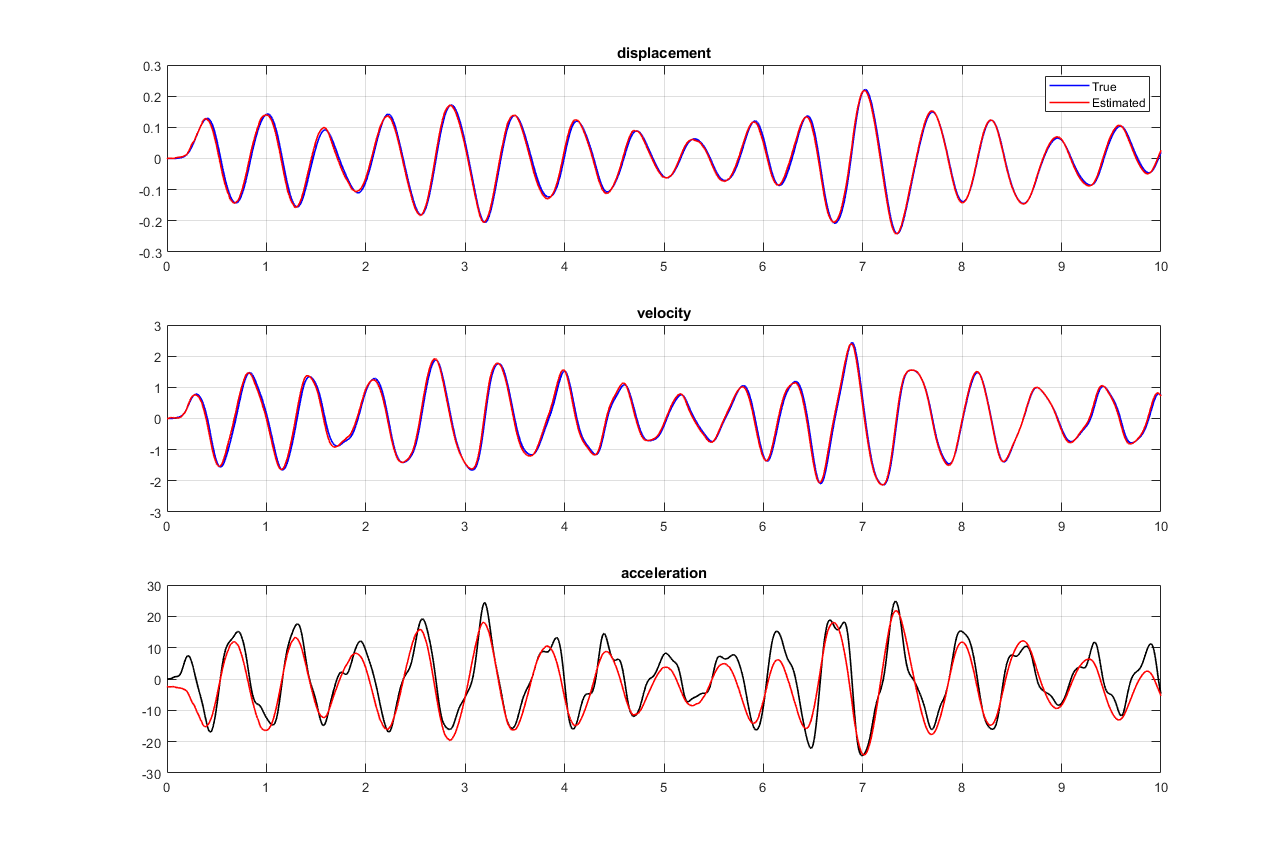
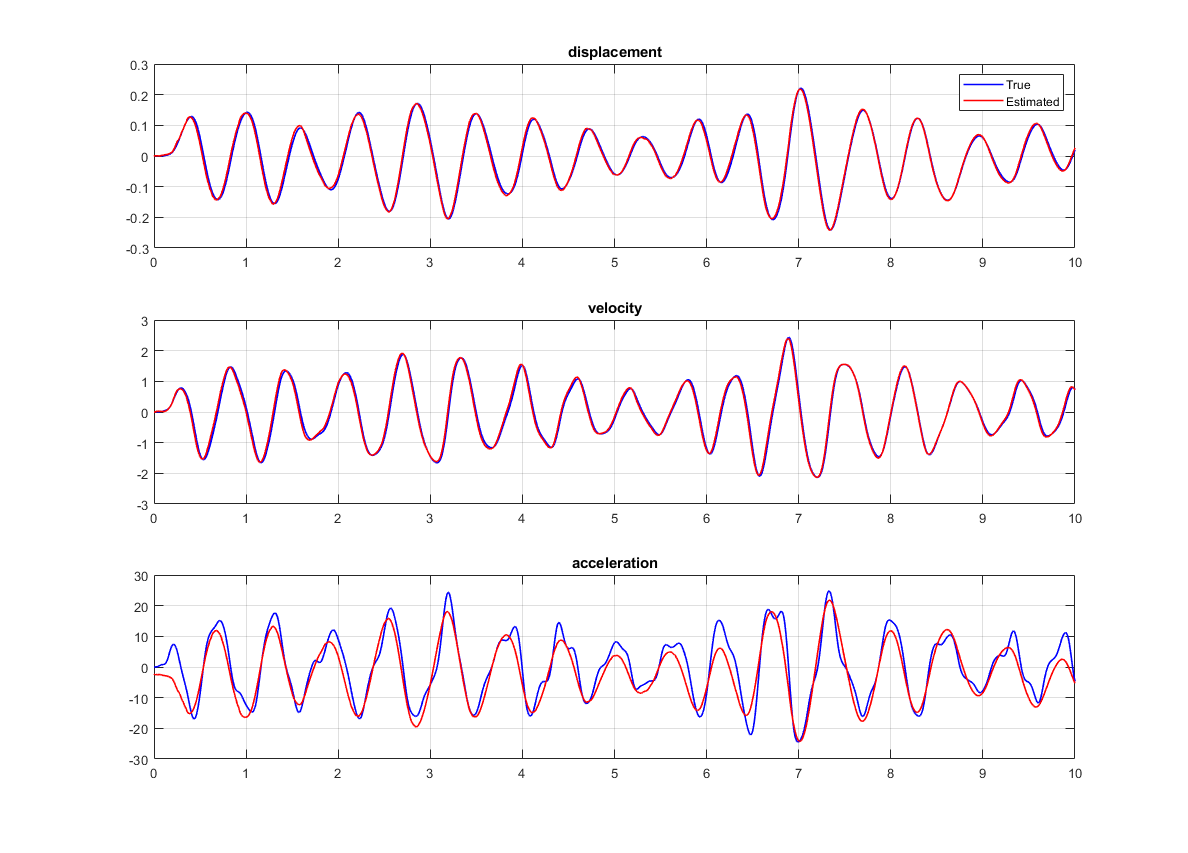
made minor changes

diff --git a/spring_mass_EnKF/main.m b/spring_mass_EnKF/main.m
@@ -129,7 +129,7 @@ for k = 1:size(y',2)
  grid on;
 
  subplot(3,1,3);
- plot(t, qddot, 'k', t, (C*MM+D*u)', 'r', 'linewidth', 1.2);
+ plot(t, qddot, 'b', t, (C*MM+D*u)', 'r', 'linewidth', 1.2);
  title('acceleration')
 
  grid on;

diff --git a/spring_mass_EnKF/Readme.md b/spring_mass_EnKF/Readme.md
@@ -1,0 +1,3 @@
+# Ensemble kalman filter
+
+<img width="1163" alt="Result_from_matlab" src="Result_from_matlab.png">
